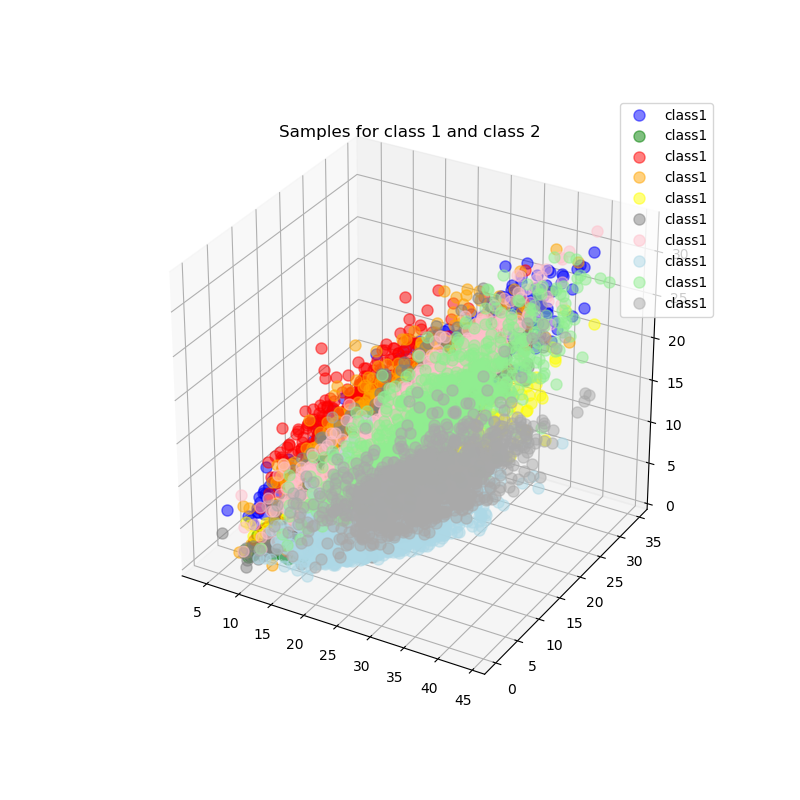
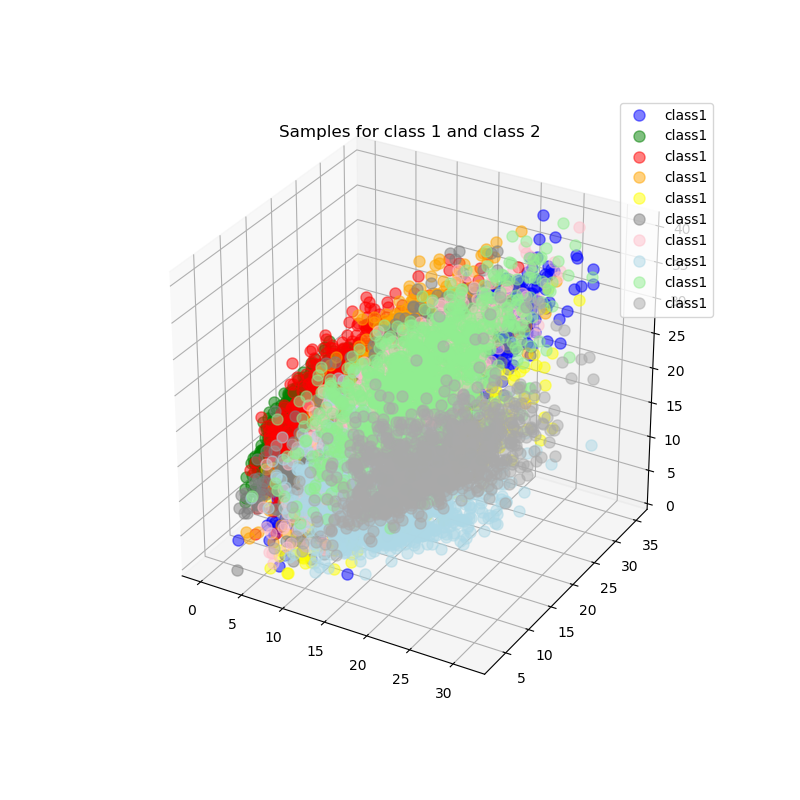
new images

diff --git a/AutoEncoder_WL.py b/AutoEncoder_WL.py
@@ -17,14 +17,14 @@ x_test = x_test.reshape((len(x_test), np.prod(x_test.shape[1:])))
 
 encoding_dim = 3
 input_img = Input(shape=(784,))
-encoded = Dense(encoding_dim, activation='relu')(input_img)
-decoded = Dense(784, activation='sigmoid')(encoded)
+encoded = Dense(encoding_dim, activation='tanh')(input_img)
+decoded = Dense(784, activation='linear')(encoded)
 autoencoder = Model(input_img, decoded)
 encoder = Model(input_img, encoded)
 encoded_input = Input(shape=(encoding_dim,))
-autoencoder.compile(optimizer='adadelta', loss='binary_crossentropy')
+autoencoder.compile(optimizer='sgd', loss='mse')
 autoencoder.fit(x_train, x_train,
-                epochs=50,
+                epochs=1000,
                 batch_size=256,
                 shuffle=True,
                 validation_data=(x_test, x_test))
@@ -66,9 +66,9 @@ z8 = []
 x9 = []
 y9 = []
 z9 = []
-
-fig = plt.figure(figsize=(8,8))
-ax = fig.add_subplot(111, projection='3d')
+#
+# fig = plt.figure(figsize=(8,8))
+# ax = fig.add_subplot(111, projection='3d')
 
 plt.rcParams['legend.fontsize'] = 10
 for line in encoded_labels:
@@ -115,19 +115,19 @@ for line in encoded_labels:
     else:
         print("c'est mort")
 
-ax.plot(x0, y0, z0, 'o', markersize=8, color='blue', alpha=0.5, label='class1')
-ax.plot(x1, y1, z1, 'o', markersize=8, color='green', alpha=0.5, label='class1')
-ax.plot(x2, y2, z2, 'o', markersize=8, color='red', alpha=0.5, label='class1')
-ax.plot(x3, y3, z3, 'o', markersize=8, color='orange', alpha=0.5, label='class1')
-ax.plot(x4, y4, z4, 'o', markersize=8, color='yellow', alpha=0.5, label='class1')
-ax.plot(x5, y5, z5, 'o', markersize=8, color='grey', alpha=0.5, label='class1')
-ax.plot(x6, y6, z6, 'o', markersize=8, color='pink', alpha=0.5, label='class1')
-ax.plot(x7, y7, z7, 'o', markersize=8, color='lightblue', alpha=0.5, label='class1')
-ax.plot(x8, y8, z8, 'o', markersize=8, color='lightgreen', alpha=0.5, label='class1')
-ax.plot(x9, y9, z9, 'o', markersize=8, color='darkgrey', alpha=0.5, label='class1')
+plt.scatter(x0, y0, s=50)
+plt.scatter(x1, y1, s=50)
+plt.scatter(x2, y2, s=50)
+plt.scatter(x3, y3, s=50)
+plt.scatter(x4, y4, s=50)
+plt.scatter(x5, y5, s=50)
+plt.scatter(x6, y6, s=50)
+plt.scatter(x7, y7, s=50)
+plt.scatter(x8, y8, s=50)
+plt.scatter(x9, y9, s=50)
 
-plt.title('Samples for class 1 and class 2')
-ax.legend(loc='upper right')
-plt.savefig('colorful.png')
+# plt.title('Samples for class 1 and class 2')
+# ax.legend(loc='upper right')
+plt.savefig('colorful_4.png')
 
 plt.show()

diff --git a/a_tester.py b/a_tester.py
@@ -13,37 +13,37 @@ from mpl_toolkits.mplot3d import proj3d
 
 x_train = x_train.astype('float32') / 255.
 x_test = x_test.astype('float32') / 255.
+
 x_train = x_train.reshape((len(x_train), np.prod(x_train.shape[1:])))
 x_test = x_test.reshape((len(x_test), np.prod(x_test.shape[1:])))
 
 encoding_dim = 2
 input_img = Input(shape=(784,))
-encoded = Dense(encoding_dim, activation='linear')(input_img)
+encoded = Dense(encoding_dim, activation='tanh')(input_img)
 decoded = Dense(784, activation='linear')(encoded)
 
 model = Model(input_img, [decoded, encoded])
 
-model.compile(optimizer='sgd', loss=[mse,mse], loss_weights=[1,0])
+model.compile(optimizer='sgd', loss=[mse, mse], loss_weights=[1, 0])
 
-model.fit(x_train, x_train,
-                epochs=50,
-                batch_size=256,
-                shuffle=True,
-                validation_data=(x_test, x_test))
+model.fit(np.array(x_train), np.array(x_train),
+          epochs=50,
+          batch_size=256,
+          shuffle=True,
+          validation_data=(x_test, x_test))
 
 encoded_imgs = model.predict(x_test)
-model.save('model.h5')  # creates a HDF5 file 'my_model.h5'
+model.save('model.h5')
 
 X = [x[0] for x in encoded_imgs]
 Y = [x[1] for x in encoded_imgs]
 Z = [x[2] for x in encoded_imgs]
 print(X)
 
-fig = plt.figure(figsize=(8,8))
+fig = plt.figure(figsize=(8, 8))
 ax = fig.add_subplot(111, projection='3d')
 plt.rcParams['legend.fontsize'] = 10
 ax.plot(X, Y, Z, 'o', markersize=8, color='blue', alpha=0.5, label='class1')
-#ax.plot(class2_sample[0,:], class2_sample[1,:], class2_sample[2,:], '^', markersize=8, alpha=0.5, color='red', label='class2')
 
 plt.title('Samples for class 1 and class 2')
 ax.legend(loc='upper right')
